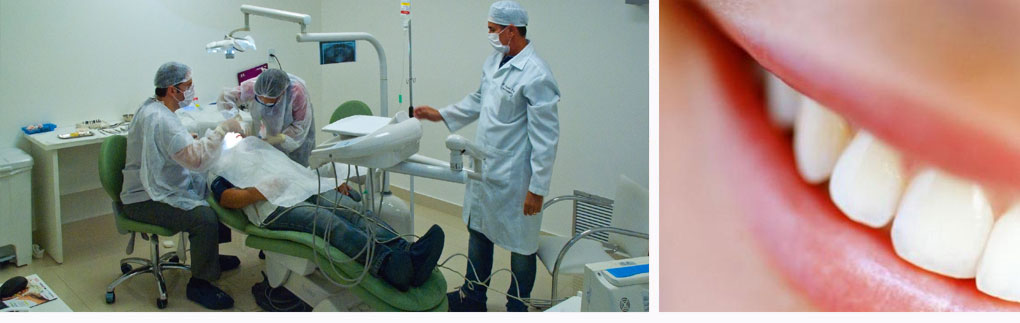
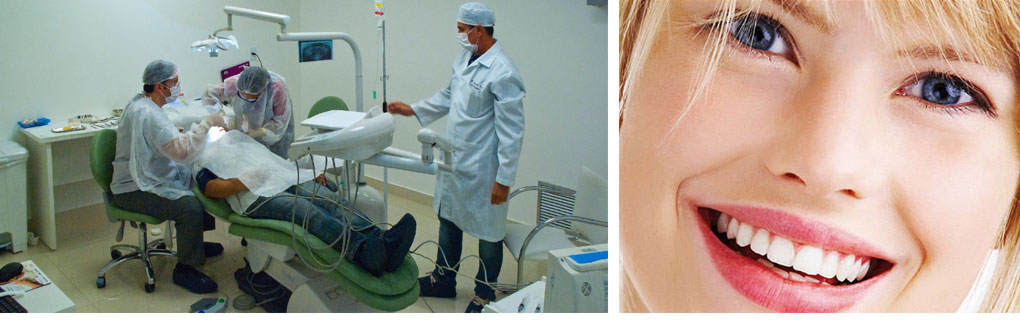
passei o slider para parte de hospital e troquei algumas fotos

diff --git a/app/assets/stylesheets/_index.sass b/app/assets/stylesheets/_index.sass
@@ -1,18 +1,4 @@
-.index
-	.nivoSlider
-		position: relative
-		background: url(images/loading.gif) no-repeat 50% 50%
-		height: 300px
-
-		>img 
-			width: 960px
-			top: 0px
-			display: none
-		>a 
-			border: 0
-			display: block
-
-            
+.index      
 	.banner
 		width: 960px
 		border-left-style: solid

diff --git a/app/assets/stylesheets/_hospital.sass b/app/assets/stylesheets/_hospital.sass
@@ -1,4 +1,17 @@
 .hospital
+	.nivoSlider
+		position: relative
+		background: url(images/loading.gif) no-repeat 50% 50%
+		height: 300px
+
+		>img 
+			width: 960px
+			top: 0px
+			display: none
+		>a 
+			border: 0
+			display: block
+				
 	.banner
 		width: 960px
 		border-left-style: solid

diff --git a/app/assets/stylesheets/_contato.sass b/app/assets/stylesheets/_contato.sass
@@ -15,7 +15,7 @@
 			font-family: Calibri
 			color: #611852
 			font-size: 20px
-			margin-left: 60px
+			margin-left: 5px
 
 
 
